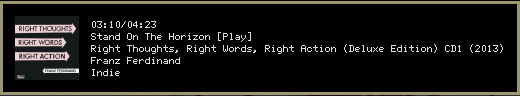
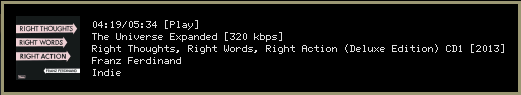
add bitrate, rearrange some stuff

Changed region(s): [[0.0, 0.0421, 1.0, 0.9684], [0.0, 0.9895, 1.0, 1.0], [0.0615, 0.6947, 0.2462, 0.8]]

diff --git a/src/main.rs b/src/main.rs
@@ -40,24 +40,26 @@ fn info(c: &mut Client) -> (String, String, String, String, String) {
     )
 }
 
-// elapsed/duration -> string
-fn time(status: &mut Status) -> (String, String) {
+// elapsed/duration and bitrate -> string
+fn info_extended(status: &mut Status) -> (String, String, String) {
     let elap = status.elapsed.unwrap().num_seconds();
     let elapsed = format_time(elap);
     let dur = status.duration.unwrap().num_seconds();
     let duration = format_time(dur);
-    (elapsed, duration)
+    let bitrate = status.bitrate.unwrap().to_string();
+    let bitrate = bitrate + &" kbps".to_string();
+    (elapsed, duration, bitrate)
 }
 
 fn main() {
     let mut c = Client::connect("127.0.0.1:6600").unwrap();
     let mut status: Status = c.status().unwrap();
     let (tit, art, alb, dat, gen) = info(&mut c);
-    let (elapsed, duration) = time(&mut status);
+    let (elapsed, duration, bitrate) = info_extended(&mut status);
     let stat = status.state;
     let state = PlayState { sta: stat };
-    // elapsed/duration
-    // title [state]
+    // elapsed/duration [state]
+    // title [bitrate]
     // album (date)
     // artist
     // genre
@@ -66,15 +68,17 @@ fn main() {
     let msg = elapsed
         + &"/".to_string()
         + &duration
-        + &"\n".to_string()
-        + &tit
         + &" [".to_string()
         + &state.to_string()
         + &"]\n".to_string()
+        + &tit
+        + &" [".to_string()
+        + &bitrate
+        + &"]\n".to_string()
         + &alb
-        + &" (".to_string()
+        + &" [".to_string()
         + &dat
-        + &")\n".to_string()
+        + &"]\n".to_string()
         + &art
         + &"\n".to_string()
         + &gen;

diff --git a/README.md b/README.md
@@ -7,9 +7,9 @@ Note: Cover art is expected to be placed at `/tmp/cover.png`.
 ## Output
 
 ```
-elapsed/duration
-title [state]
-album (date)
+elapsed/duration [state]
+title [bitrate]
+album [date]
 artist
 genre
 ```
